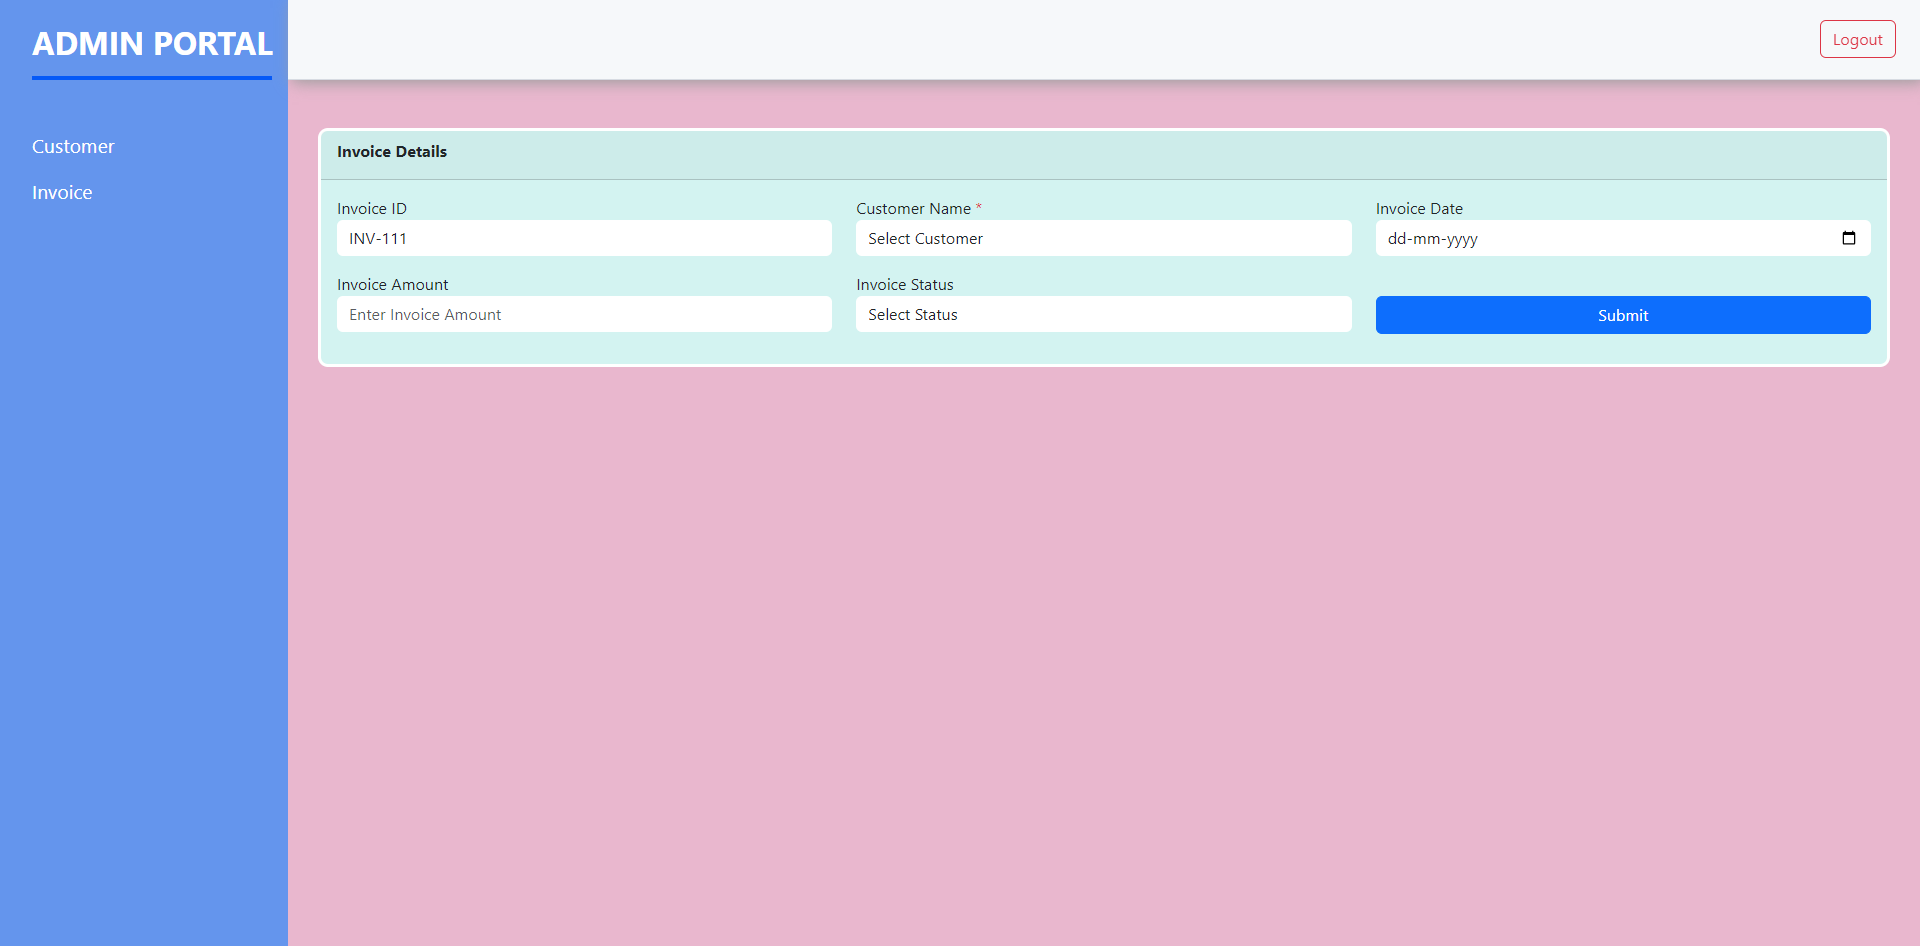
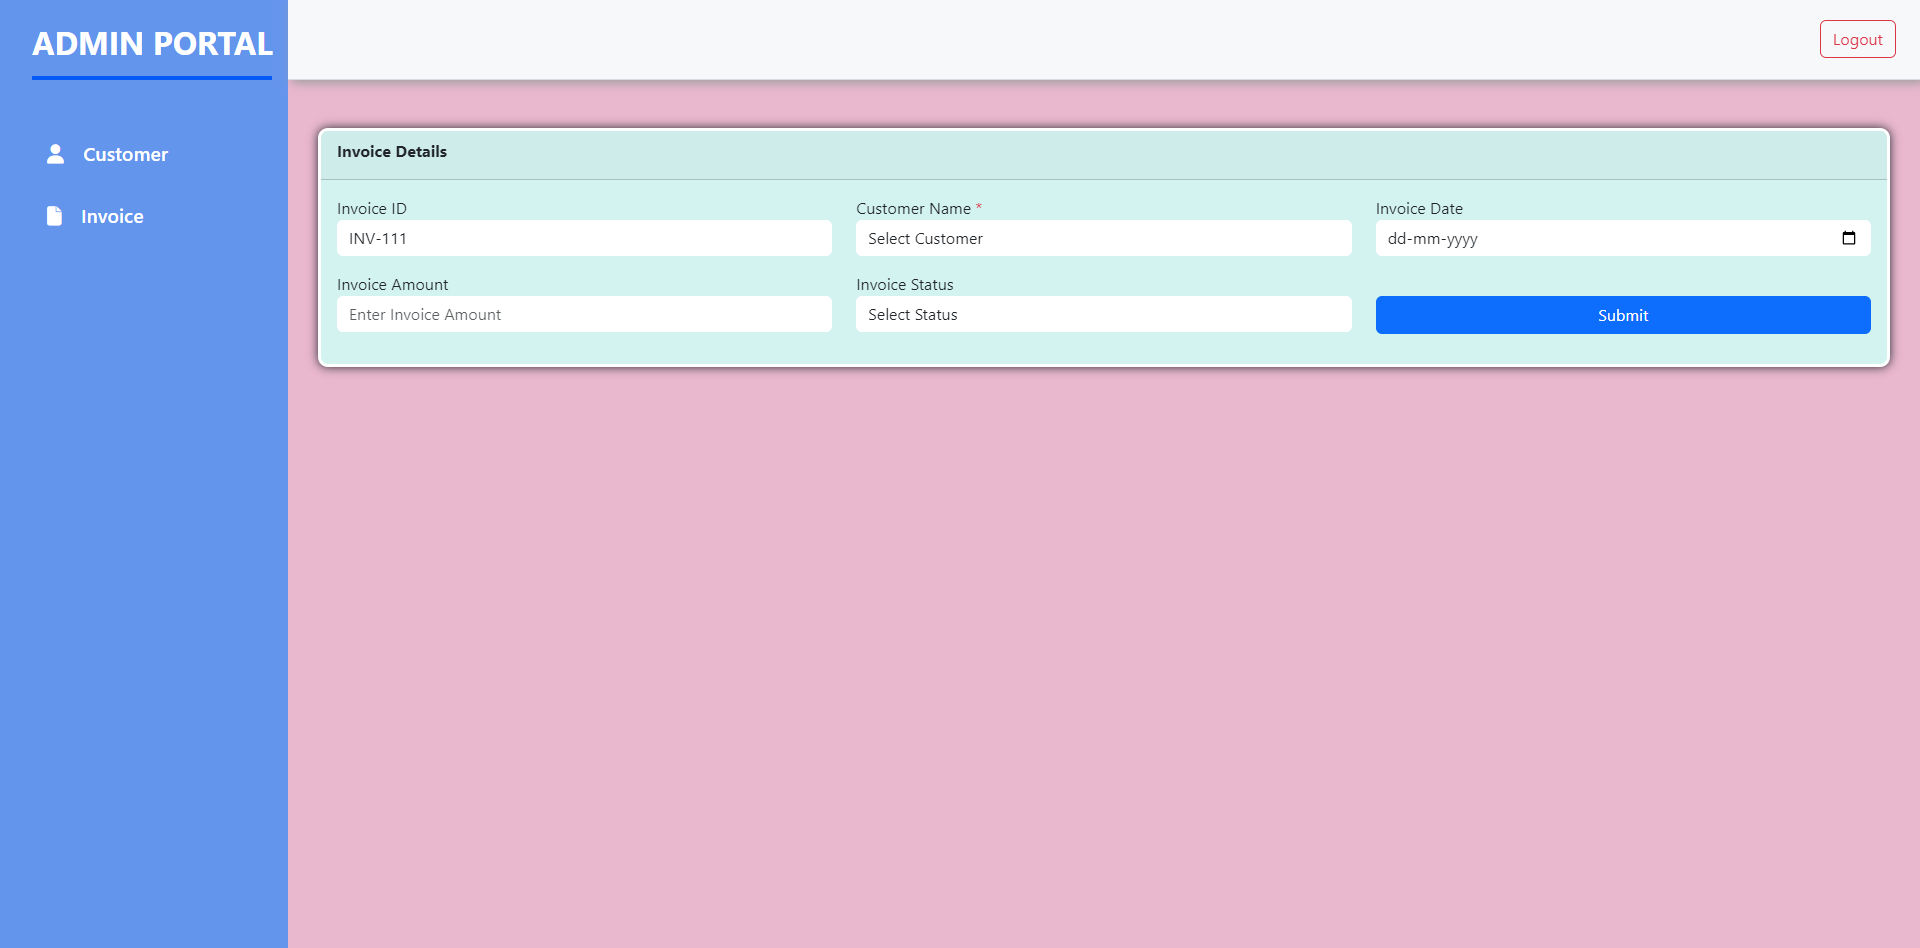
Update
Design and Screenshot changes

diff --git a/src/css/main.css b/src/css/main.css
@@ -7,7 +7,8 @@
 .sidebar-ul {
     gap: 17px;
     display: flex;
-    flex-direction: column
+    flex-direction: column;
+    /* align-items: center; */
 }
 
 .sidebar-head {
@@ -35,9 +36,17 @@ ul>li {
     cursor: pointer;
 }
 
-ul>li.sidebar-brand:hover {
+li.sidebar-brand {
     font-weight: 500;
-    transition: 50ms ease-in-out;
+    padding: 8px 15px;
+}
+
+ul>li.sidebar-brand:hover {
+    font-weight: 700;
+    transition: 70ms ease-in-out;
+    border-radius: 5px;
+    box-shadow: 0 0 7px 0px #000;
+    width: 93%;
 }
 
 .topbar {
@@ -48,7 +57,7 @@ ul>li.sidebar-brand:hover {
     left: 15%;
     right: 0;
     background: #f6f8fa;
-    box-shadow: 4px 3px 15px #9d9d9d;
+    box-shadow: 4px 3px 10px #9d9d9d;
     border-bottom: 1px solid #d7dbe2;
     height: 82px;
     display: flex;
@@ -92,6 +101,7 @@ ul>li.sidebar-brand:hover {
     border: 3px solid #ffffff;
     border-radius: 10px;
     background-color: #d3f3f1;
+    box-shadow: 0 0 10px 0;
 }
 .body-content>.fa-icons{
     cursor: pointer;

diff --git a/src/js/main.js b/src/js/main.js
@@ -6,12 +6,8 @@ $(document).ready(function () {
 
         if (val == 'customer_list') {
             $('#body_content').load('src/views/customer_list_page.php');
-            $('#customer_list_card').show()
-            $('#invoice_list_card').hide()
         } else if (val == 'invoice_list') { 
             $('#body_content').load('src/views/invoice_list_page.php');
-            $('#invoice_list_card').show()
-            $('#customer_list_card').hide()
         }
     })
 

diff --git a/src/css/index.css b/src/css/index.css
@@ -18,7 +18,7 @@ body{
     border: 3px solid #ffffff;
     border-radius: 10px;
     background-color: #d3f3f1;
-    /* color: wheat; */
+    box-shadow: 0 0 15px 0;
 }
 .card-title{
     font-weight: bold;

diff --git a/src/views/leftbar.php b/src/views/leftbar.php
@@ -2,10 +2,10 @@
     <ul class="sidebar-ul">
         <li class="sidebar-head" onclick="location.reload()">ADMIN PORTAL</li>
         <li class="sidebar-brand" data-value="customer_list">
-            Customer
+            <i class="fa fa-user"></i>&emsp;Customer
         </li>
         <li class="sidebar-brand" data-value="invoice_list"> 
-            Invoice
+        <i class="fa fa-file"></i>&emsp;Invoice
         </li>
     </ul>
 </div>

diff --git a/src/headers.php b/src/headers.php
@@ -8,10 +8,3 @@
 
 <!-- source css -->
 <link rel="stylesheet" href="./src/css/index.css">
-<?php
-if (isset($_SESSION['user_id'])) {
-?>
-    <link rel="stylesheet" href="./src/css/main.css">
-
-<?php }
-?>

diff --git a/src/views/home.php b/src/views/home.php
@@ -1,6 +1,7 @@
 <?php
 include 'leftbar.php';
 ?>
+    <link rel="stylesheet" href="src/css/main.css">
 
 
 <div class="body-content" id="body_content">
